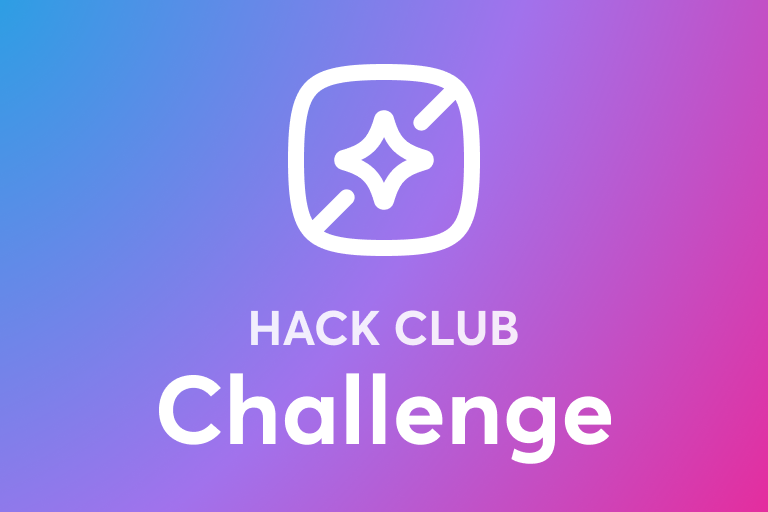
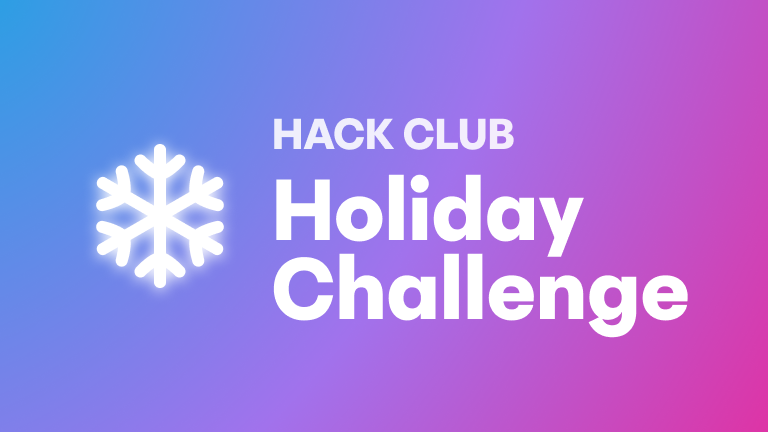
Update for holiday challenge

Changed region(s): [[0.1875, 0.1204, 0.9062, 0.9028], [0.125, 0.331, 0.3125, 0.6921]]

diff --git a/src/components/challenge/Story.js b/src/components/challenge/Story.js
@@ -1,0 +1,119 @@
+import React, { Fragment, Component } from 'react'
+import styled from 'styled-components'
+import {
+  Heading,
+  OutlineButton,
+  Box,
+  Text,
+  Image,
+  Flex,
+  theme
+} from '@hackclub/design-system'
+import IconButton from 'components/IconButton'
+import { Modal, Overlay, CloseButton } from 'components/Modal'
+
+const Columns = styled(Box)`
+  img {
+    max-width: 80%;
+    margin: auto;
+  }
+  ${theme.mediaQueries.md} {
+    column-count: 2;
+    column-gap: ${theme.space[3]}px;
+  }
+`
+const P = styled(Text).attrs({ fontSize: 2, mb: 2 })`
+  break-inside: avoid;
+`
+
+class Story extends Component {
+  state = { active: false }
+
+  toggleActive = () => {
+    this.setState(state => ({ active: !state.active }))
+  }
+
+  render() {
+    if (this.state.active) {
+      return (
+        <Fragment>
+          <Modal align="left" my={4} p={[3, 4]} width="48rem">
+            <CloseButton onClick={this.toggleActive} />
+            <Heading.h2 mb={2}>This winter…</Heading.h2>
+            <Columns>
+              <Image
+                src="/holiday/orpheus.png"
+                alt="Orpheus with a Santa hat & snow"
+              />
+              <P>
+                ‘Twas the night before Hack Club
+                <br />
+                and all through the school
+                <br />
+                the hackers were hacking
+                <br />
+                and that’s…pretty cool
+              </P>
+              <P>
+                With IDEs open
+                <br />
+                And repls, and rifts
+                <br />
+                They clattered on keyboards
+                <br />
+                To ship all their gifts
+              </P>
+              <P>
+                On repl.it, on p5,
+                <br />
+                on CodePen, on Glitch
+              </P>
+              <P>
+                On filesystem, npm,
+                <br />
+                GitHub & Git
+              </P>
+              <P>
+                They raced in a challenge
+                <br />
+                with only one rule:
+                <br />
+                Make a hack for a hacker
+                <br />
+                Who you think is cool
+              </P>
+              <P>
+                So go, happy hackers
+                <br />
+                You have code to write.
+                <br />A good hack club to all,
+                <br />
+                And to all a good night.
+              </P>
+              <Image
+                src="/holiday/house.png"
+                alt="Hack House with Santa Orpheus coding"
+              />
+            </Columns>
+          </Modal>
+          <Overlay onClick={this.toggleActive} />
+        </Fragment>
+      )
+    }
+    return (
+      <IconButton
+        is={OutlineButton}
+        glyph="docs"
+        children="Read the story…"
+        bg="white"
+        size={28}
+        mt={[0, 3]}
+        mb={[4, 5]}
+        onClick={this.toggleActive}
+        {...this.props}
+      />
+    )
+  }
+}
+
+export default Story

diff --git a/src/pages/challenge.js b/src/pages/challenge.js
@@ -21,6 +21,7 @@ import IconButton from 'components/IconButton'
 import Help from 'components/challenge/Help'
 import Form from 'components/challenge/Form'
 import Ended from 'components/challenge/Ended'
+import Story from 'components/challenge/Story'
 import Santa from 'components/challenge/Santa'
 import Posts from 'components/challenge/Posts'
 import DiscussChallenge from 'components/challenge/DiscussChallenge'
@@ -73,7 +74,9 @@ const HeaderContainer = styled(Container)`
               'info form';
             ${HeaderAreaText} {
               text-align: right;
-              margin-right: -${theme.space[2]}px;
+              h1 {
+                margin-right: -${theme.space[2]}px;
+              }
             }
           `
         : css`
@@ -94,9 +97,13 @@ const HeaderCard = styled(Sheet).attrs({ p: 3, mb: 0 })`
   p {
     color: ${theme.colors.black} !important;
   }
-  input[type='submit'] {
-    color: ${theme.colors.info} !important;
-  }
+  ${props =>
+    props.status === 'needsToAuth' &&
+    css`
+      input[type='submit'] {
+        color: ${theme.colors.info} !important;
+      }
+    `};
 `
 
 const HeaderAreaText = styled(Box)`
@@ -176,8 +183,14 @@ export default class extends Component {
           >
             <HeaderAreaText align="center" pt={[4, 3]}>
               <Name fontSize={6}>Challenge</Name>
-              <Flex my={3} align="center" justify="center">
-                <Link href="https://repl.it" target="_blank">
+              <Flex
+                my={3}
+                align="center"
+                justify={
+                  status === 'success' ? ['center', 'flex-end'] : 'center'
+                }
+              >
+                <Link href="https://sourcegraph.com" target="_blank">
                   <Image
                     alt="Sourcegraph logo"
                     src="/sourcegraph-light.svg"
@@ -211,15 +224,16 @@ export default class extends Component {
                 🏅 Submissions due {dt(challenge.end)}. Top 3 voted win!
               </Text>
             </HeaderAreaInfo>
-            <HeaderAreaForm>
+            <HeaderAreaForm status={status}>
               <Help />
               <Form challengeId={challenge.id} status={status} />
             </HeaderAreaForm>
           </HeaderContainer>
+          <Story />
         </Header>
         <Container maxWidth={48} pt={4} pb={5} px={[0, 3]}>
           {ended ? <Ended /> : <Santa />}
-          <SubmissionsHeading align="center" pb={2} px={[2, 0]}>
+          <SubmissionsHeading align="center" pb={2} pl={[2, 0]} pr={[2, 3]}>
             <Flex align="center" flex="1 1 auto" wrap>
               <Heading.h2 color="black" fontSize={5} mr={2}>
                 Submissions

diff --git a/src/components/challenge/Santa.js b/src/components/challenge/Santa.js
@@ -13,9 +13,7 @@ const spin = keyframes`
     transform: rotate(360deg);
   }
 `
-const Root = styled(Sheet)`
-  display: flex;
-  align-items: center;
+const Root = styled(Sheet.withComponent(Flex))`
   a svg {
     animation: ${spin} 8s linear infinite;
   }
@@ -26,10 +24,10 @@ const Santa = () => (
     mb={4}
     p={[4, 3]}
     align="center"
-    justify={['center', 'flex-start']}
+    flexDirection={['column', 'row']}
     wrap
-    bg="teal.7"
-    color="white"
+    bg="red.0"
+    color="primary"
   >
     <Flex
       justify={['center', 'flex-start']}

diff --git a/src/components/challenge/Help.js b/src/components/challenge/Help.js
@@ -61,6 +61,7 @@ class Help extends Component {
     return (
       <IconButton
         glyph="flag-fill"
+        bg="info"
         children="Rules"
         inverted
         fontSize={2}
